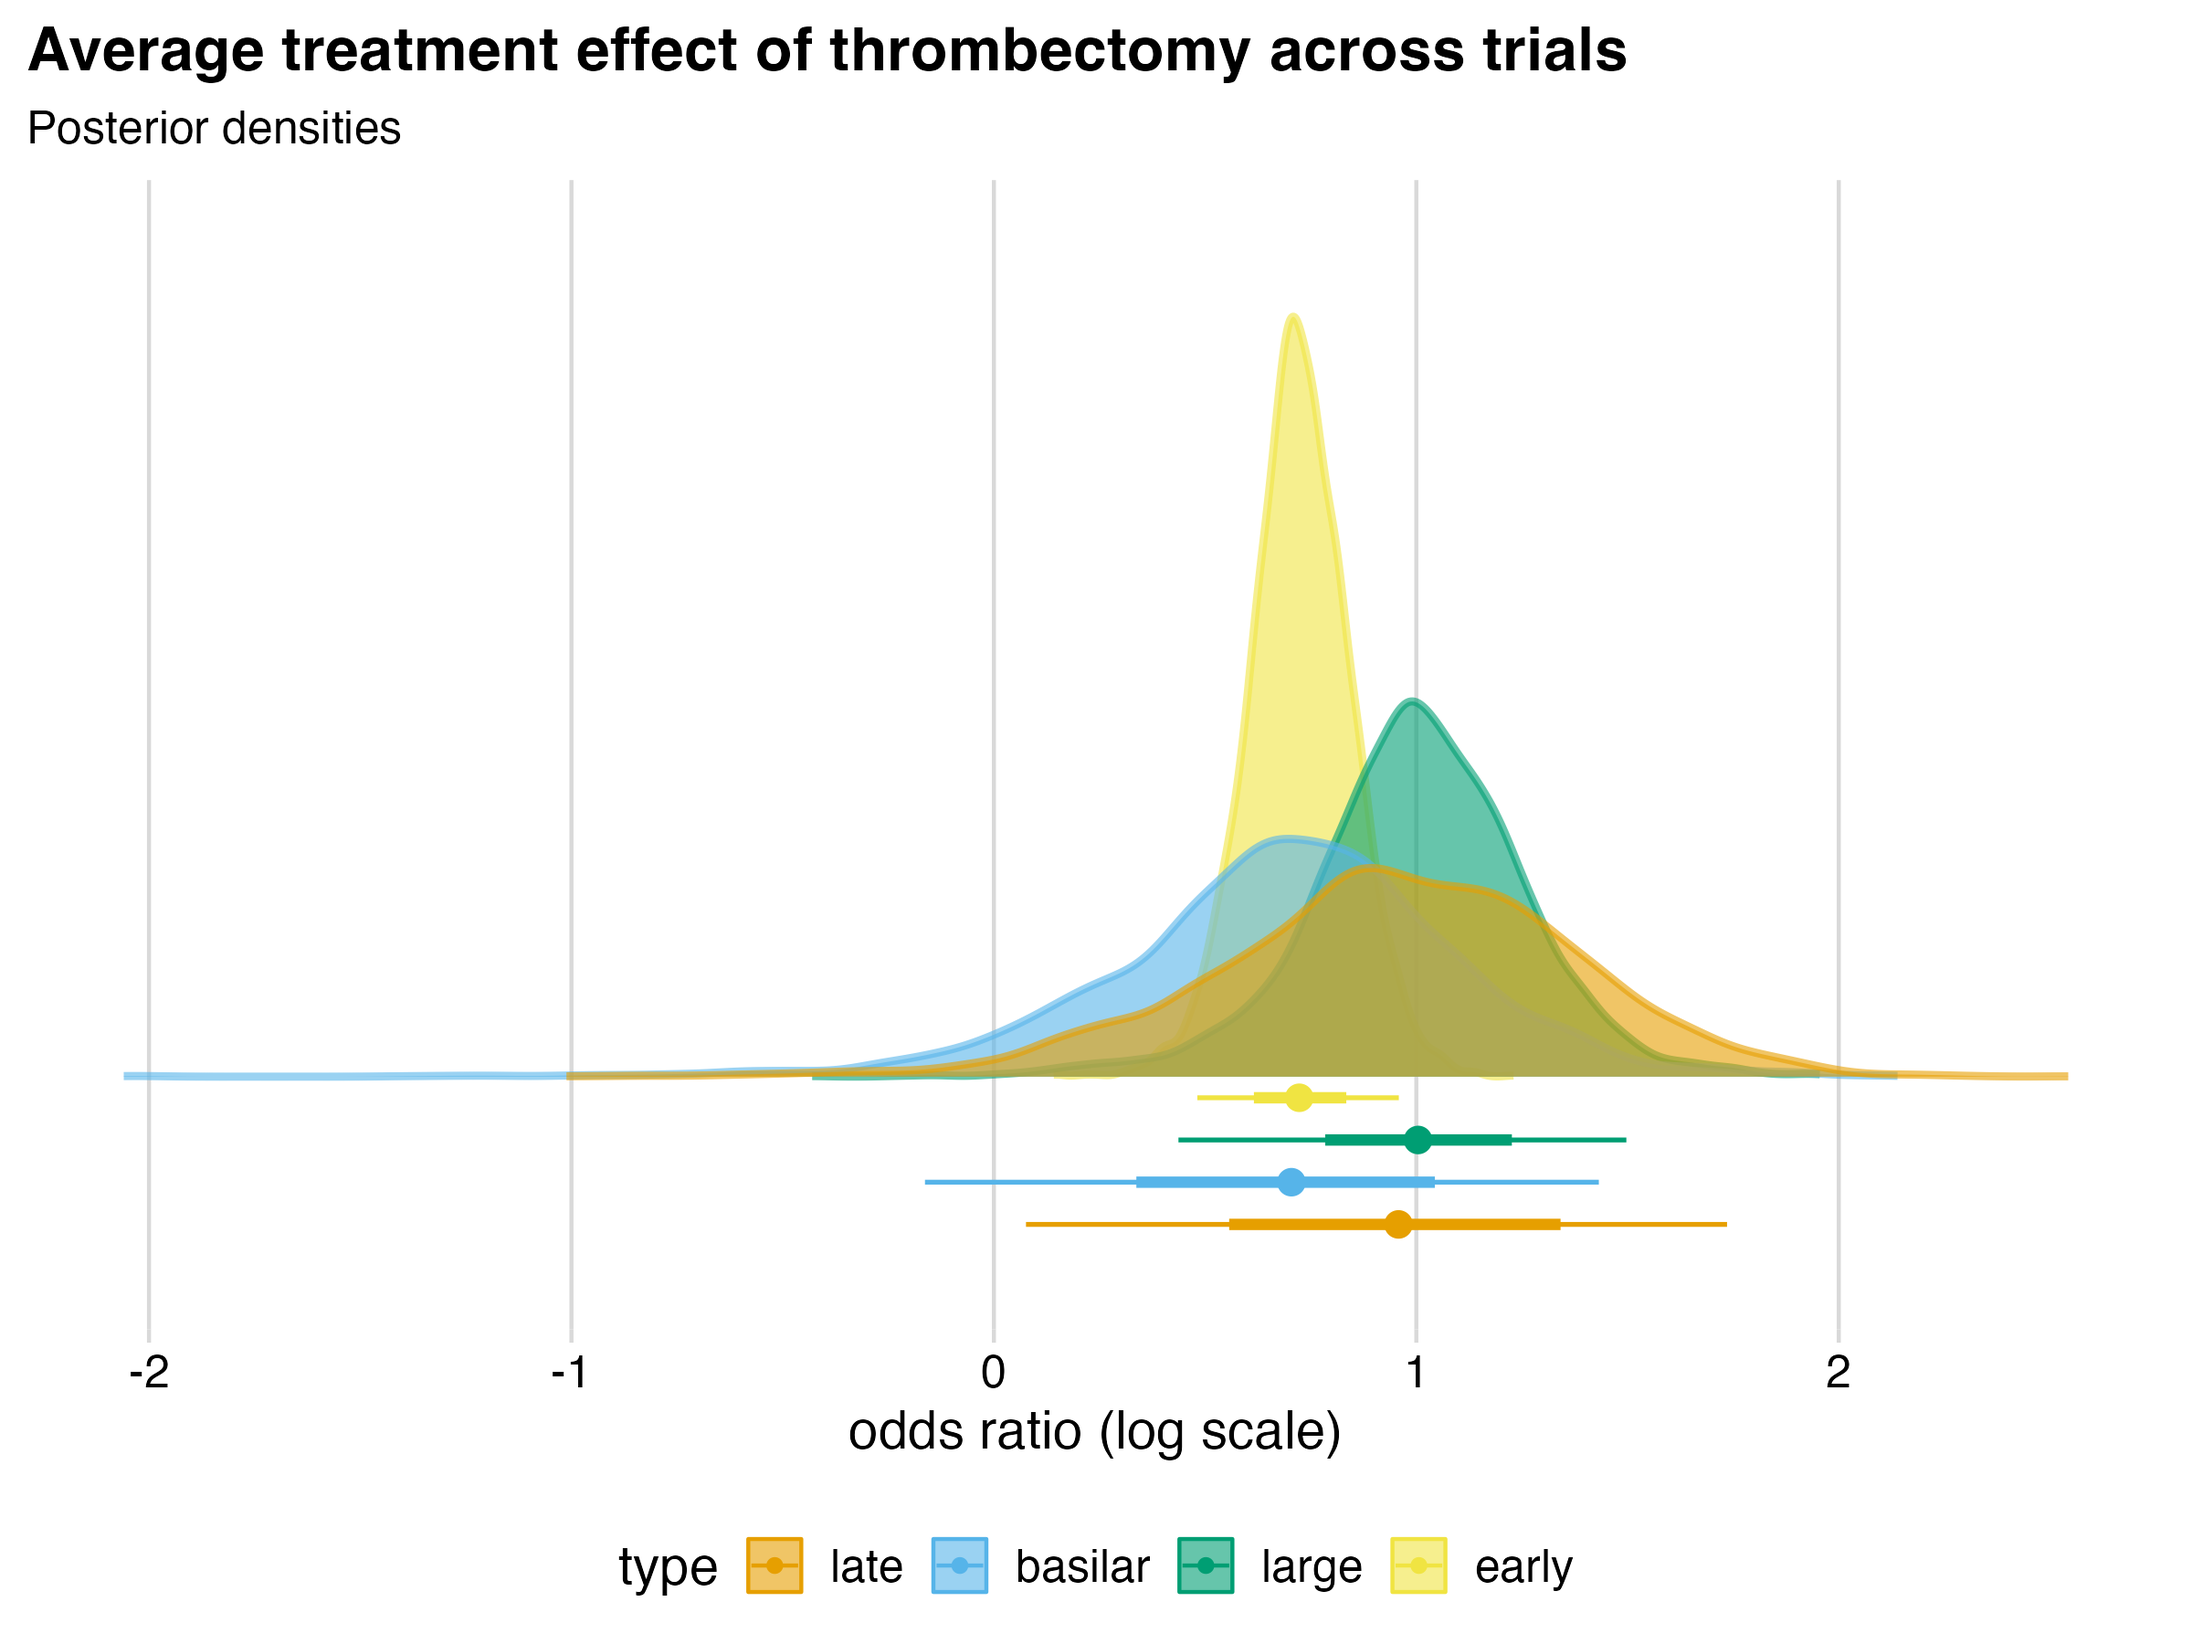
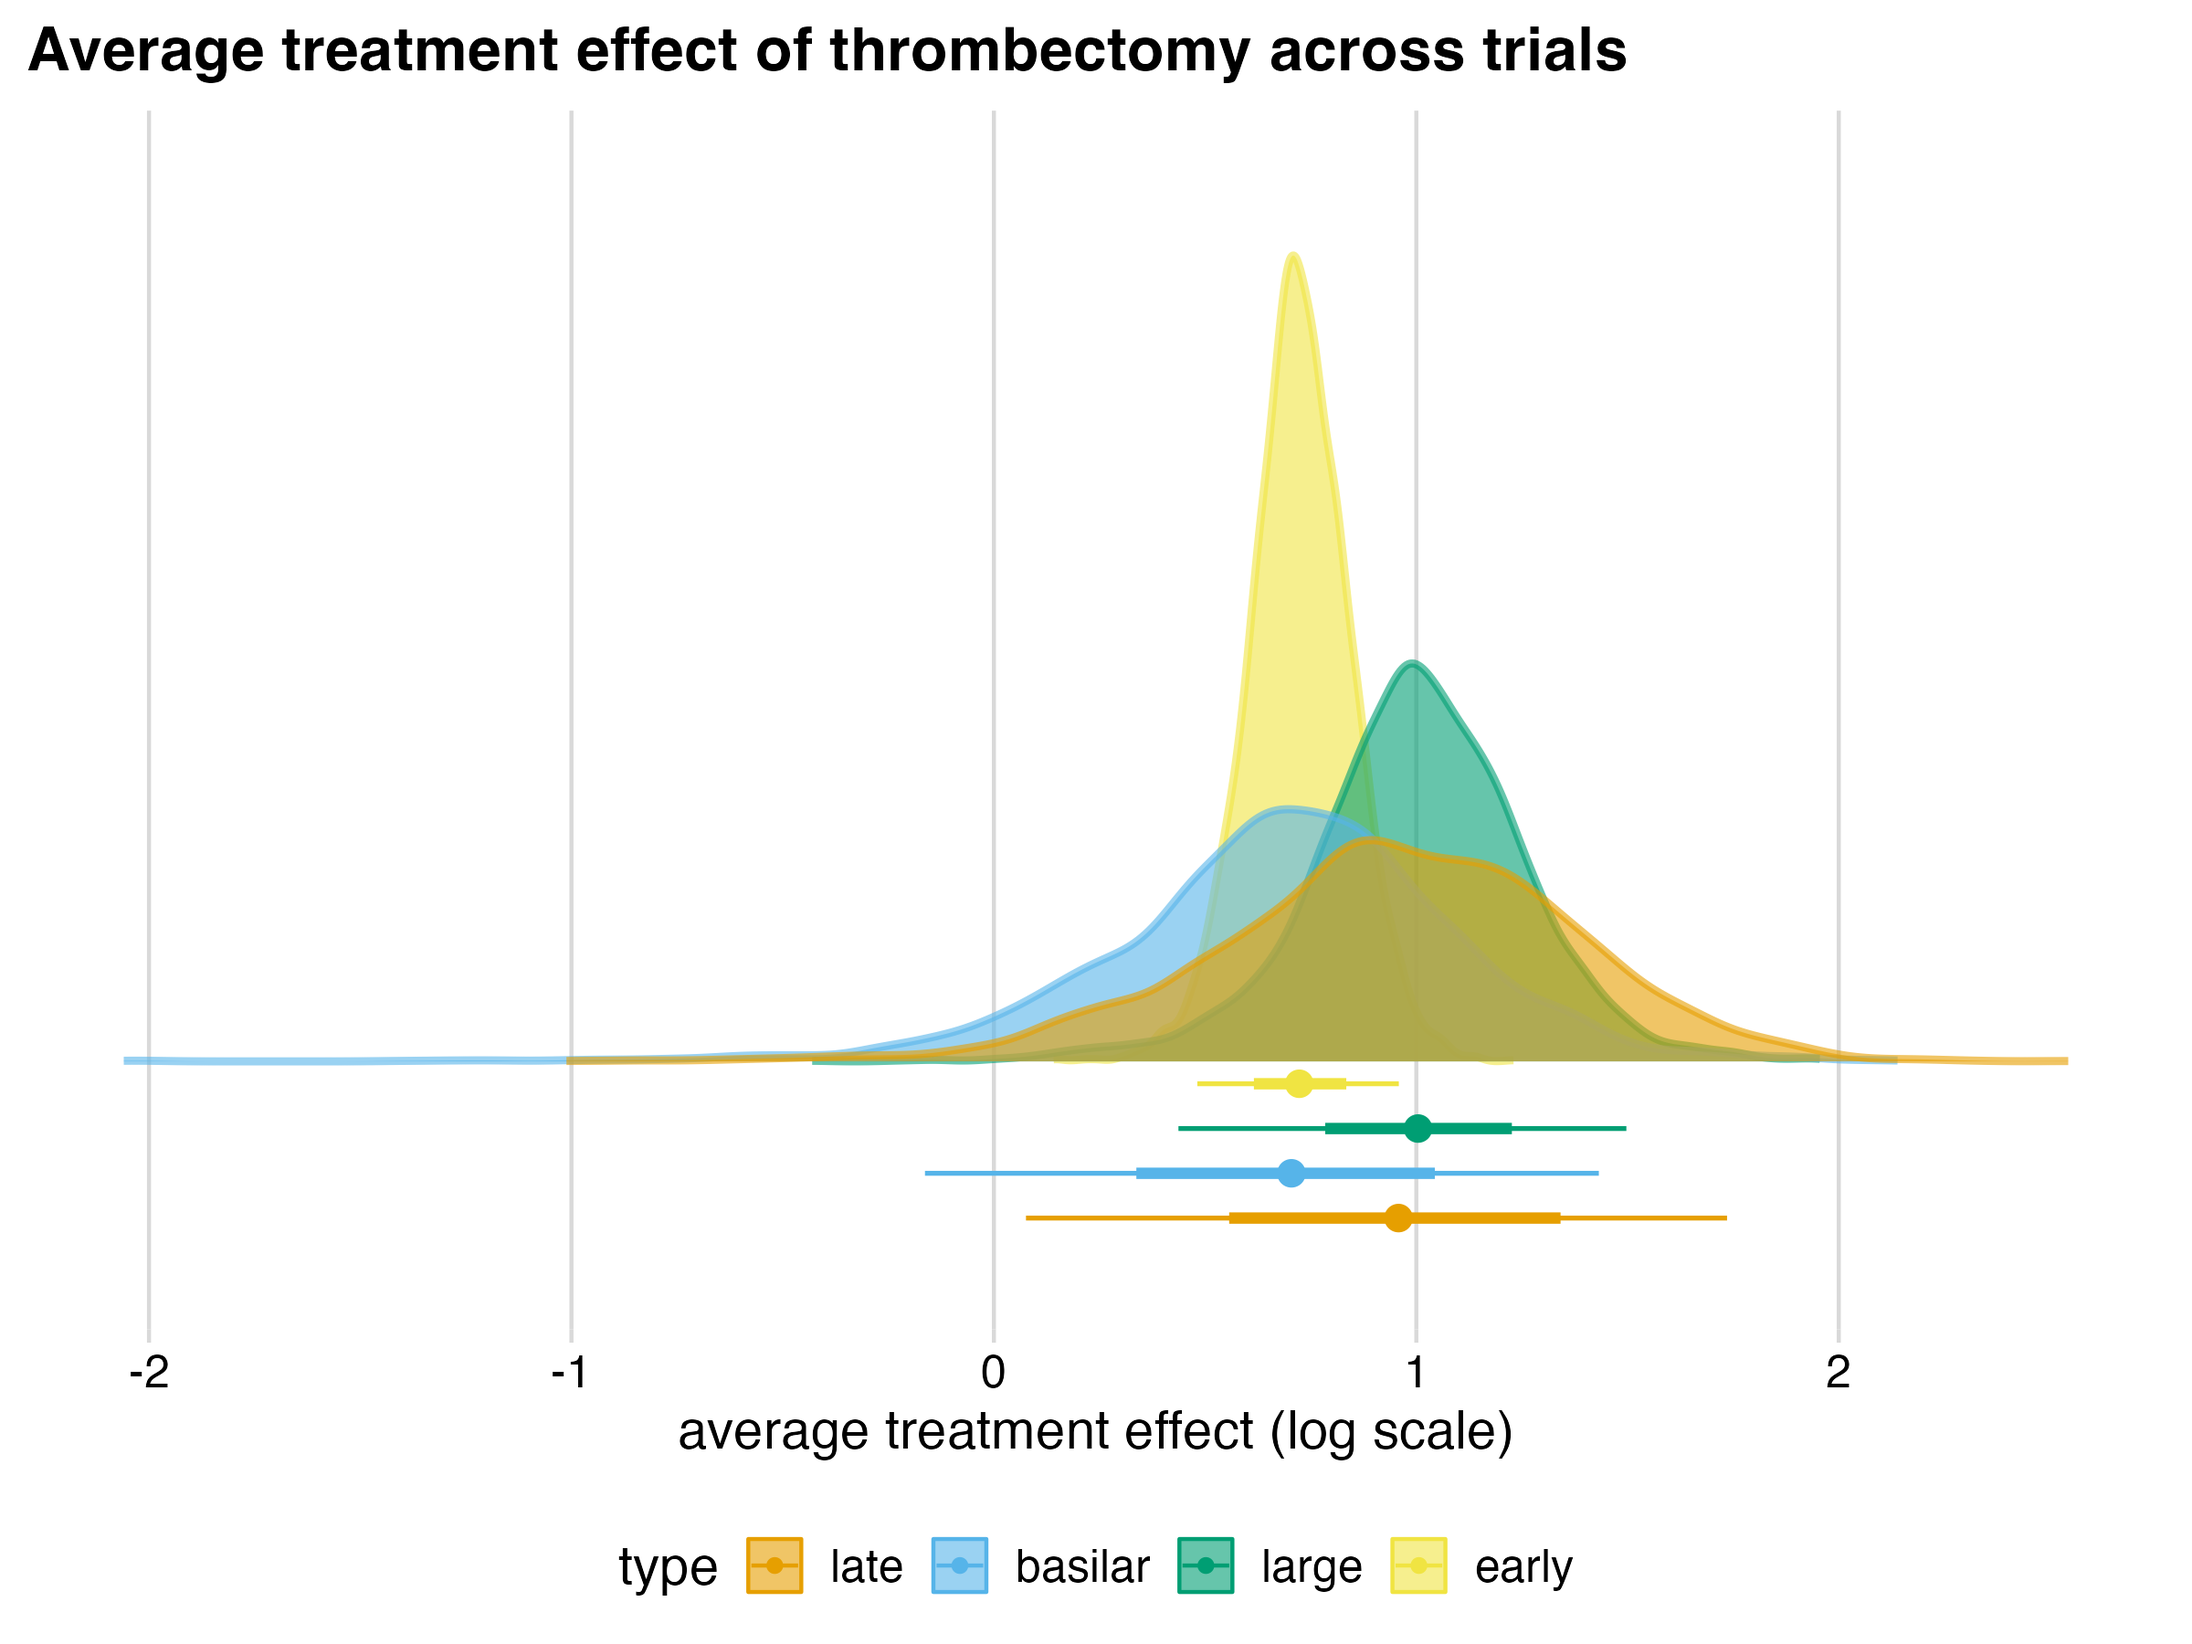
b

Changed region(s): [[0.0625, 0.1556, 0.9375, 0.7467], [0.3125, 0.84, 0.6875, 0.9022], [0.0, 0.0622, 0.1875, 0.0933]]

diff --git a/doc/analysis.md b/doc/analysis.md
@@ -82,107 +82,77 @@ The overall pooled data is shown in the following table.
 
 ## Estimated average treatment effect of thrombectomy across trials
 
-### Early
+\![posterior densisty](plots/density_posterior.png)
 
-The model estimate for the average treatment effect of thrombectomy
-across early stroke trials is summarized in the following table.
+For early stroke, the plotted values correspond to an estimated 106%
+average improvement in the odds of functional independence at 90 days
+with thrombectomy (95% CI 61.9% to 161%, P(+) = 100%).
 
-    # A tibble: 1 × 5
-      median   mad   low  high prob_pos
-       <dbl> <dbl> <dbl> <dbl>    <dbl>
-    1  0.723 0.114 0.482 0.959        1
+For large stroke, the plotted values correspond to an estimated 173%
+average improvement in the odds of functional independence at 90 days
+with thrombectomy (95% CI 54.8% to 347%, P(+) = 99.8%).
 
-These values correspond to an estimated 106% average improvement in the
-odds of functional independence at 90 days with thrombectomy (95% CI
-61.9% to 161%, P(+) = 100%).
+For late stroke, the plotted values correspond to an estimated 161%
+average improvement in the odds of functional independence at 90 days
+with thrombectomy (95% CI 7.9% to 467%, P(+) = 98%).
 
-### Large
+For basilar stroke, the plotted values correspond to an estimated 102%
+average improvement in the odds of functional independence at 90 days
+with thrombectomy (95% CI -15.1% to 319%, P(+) = 95.1%).
 
-The model estimate for the average treatment effect of thrombectomy
-across large stroke trials is summarized in the following table.
+## Probability the estimated average treatment effect of thrombectomy across trials exceeds certain values
 
-    # A tibble: 1 × 5
-      median   mad   low  high prob_pos
-       <dbl> <dbl> <dbl> <dbl>    <dbl>
-    1   1.00 0.229 0.437  1.50    0.998
+The probability that the estimated average treatment effect of
+thrombectomy across trials is positive is shown in the following table.
 
-These values correspond to an estimated 173% average improvement in the
-odds of functional independence at 90 days with thrombectomy (95% CI
-54.8% to 347%, P(+) = 99.8%).
+    # A tibble: 4 × 2
+      data    prob_pos
+      <chr>      <dbl>
+    1 large      0.998
+    2 early      1    
+    3 late       0.980
+    4 basilar    0.951
 
-### Late
+For each effect size greater than the zero, the probability that the
+estimated average treatment effect exceeds that value is shown in the
+following plot.
 
-The model estimate for the average treatment effect of thrombectomy
-across late stroke trials is summarized in the following table.
-
-    # A tibble: 1 × 5
-      median   mad    low  high prob_pos
-       <dbl> <dbl>  <dbl> <dbl>    <dbl>
-    1  0.958 0.410 0.0760  1.74    0.980
-
-These values correspond to an estimated 161% average improvement in the
-odds of functional independence at 90 days with thrombectomy (95% CI
-7.9% to 467%, P(+) = 98%).
-
-### Basilar
-
-The model estimate for the average relative treatment effect of
-thrombectomy across basilar stroke trials is summarized in the following
-table.
-
-    # A tibble: 1 × 5
-      median   mad    low  high prob_pos
-       <dbl> <dbl>  <dbl> <dbl>    <dbl>
-    1  0.704 0.353 -0.163  1.43    0.951
-
-These values correspond to an estimated 102% average improvement in the
-odds of functional independence at 90 days with thrombectomy (95% CI
--15.1% to 319%, P(+) = 95.1%).
+\![posterior ccdf](plots/ccdf_posterior.png)
 
 ## Anticipated relative treatment effect of thrombectomy in a new trial
 
-The model estimate for the variation in the trial-specific treatment
-effect of thrombectomy for each stroke type is summarized in the
-following table.
+\![posterior predictive density](plots/density_predictive.png)
 
-    # A tibble: 4 × 5
-      data    median   mad     low  high
-      <chr>    <dbl> <dbl>   <dbl> <dbl>
-    1 large    0.316 0.274 0.0150  1.20 
-    2 early    0.146 0.125 0.00769 0.516
-    3 late     0.765 0.312 0.315   1.68 
-    4 basilar  0.661 0.321 0.194   1.64 
+Translated from the log scale, the anticipated treatment effect of
+thrombectomy in a new early stroke trial has an odds ratio of 2.06 (95%
+CI 1.2 to 3.47, P(+) = 99%).
 
-When taken together with the estimates for the average relative
-treatment effects, these estimates of trial-specific treatment effect
-heterogeneity can be used to forecast the expected treatment effect of
-thrombectomy in a new trial, which we call the anticipated treatment
-effect.
+Translated from the log scale, the anticipated treatment effect of
+thrombectomy in a new large stroke trial has an odds ratio of 2.76 (95%
+CI 0.752 to 8.16, P(+) = 95.9%).
 
-    # A tibble: 4 × 6
-      data    median   mad    low  high prob_pos
-      <chr>    <dbl> <dbl>  <dbl> <dbl>    <dbl>
-    1 large    1.02  0.360 -0.284  2.10    0.959
-    2 early    0.723 0.181  0.185  1.24    0.990
-    3 late     0.969 0.837 -1.19   3.01    0.854
-    4 basilar  0.721 0.740 -1.34   2.51    0.820
+Translated from the log scale, the anticipated treatment effect of
+thrombectomy in a new late stroke trial has an odds ratio of 2.63 (95%
+CI 0.304 to 20.3, P(+) = 85.4%).
 
-### Early
+Translated from the log scale, the anticipated treatment effect of
+thrombectomy in a new basilar stroke trial has an odds ratio of 2.06
+(95% CI 0.261 to 12.2, P(+) = 82%).
 
-The anticipated treatment effect of thrombectomy in a new early stroke
-trial has an odds ratio of 2.06 (95% CI 1.2 to 3.47, P(+) = 99%).
+The probability that the anticipated treatment effect of thrombectomy in
+a new trial for each stroke type is positive is shown in the following
+table.
 
-### Large
+    # A tibble: 4 × 2
+      data    prob_pos
+      <chr>      <dbl>
+    1 large      0.959
+    2 early      0.990
+    3 late       0.854
+    4 basilar    0.820
 
-The anticipated treatment effect of thrombectomy in a new large stroke
-trial has an odds ratio of 2.76 (95% CI 0.752 to 8.16, P(+) = 95.9%).
+For each effect size greater than the zero, the probability that the
+anticipated treatment effect in a new trial exceeds that value is shown
+in the following plot.
 
-### Late
-
-The anticipated treatment effect of thrombectomy in a new late stroke
-trial has an odds ratio of 2.63 (95% CI 0.304 to 20.3, P(+) = 85.4%).
-
-### Basilar
-
-The anticipated treatment effect of thrombectomy in a new basilar stroke
-trial has an odds ratio of 2.06 (95% CI 0.261 to 12.2, P(+) = 82%).
+\![ccdf predictive](plots/ccdf_predictive.png)
